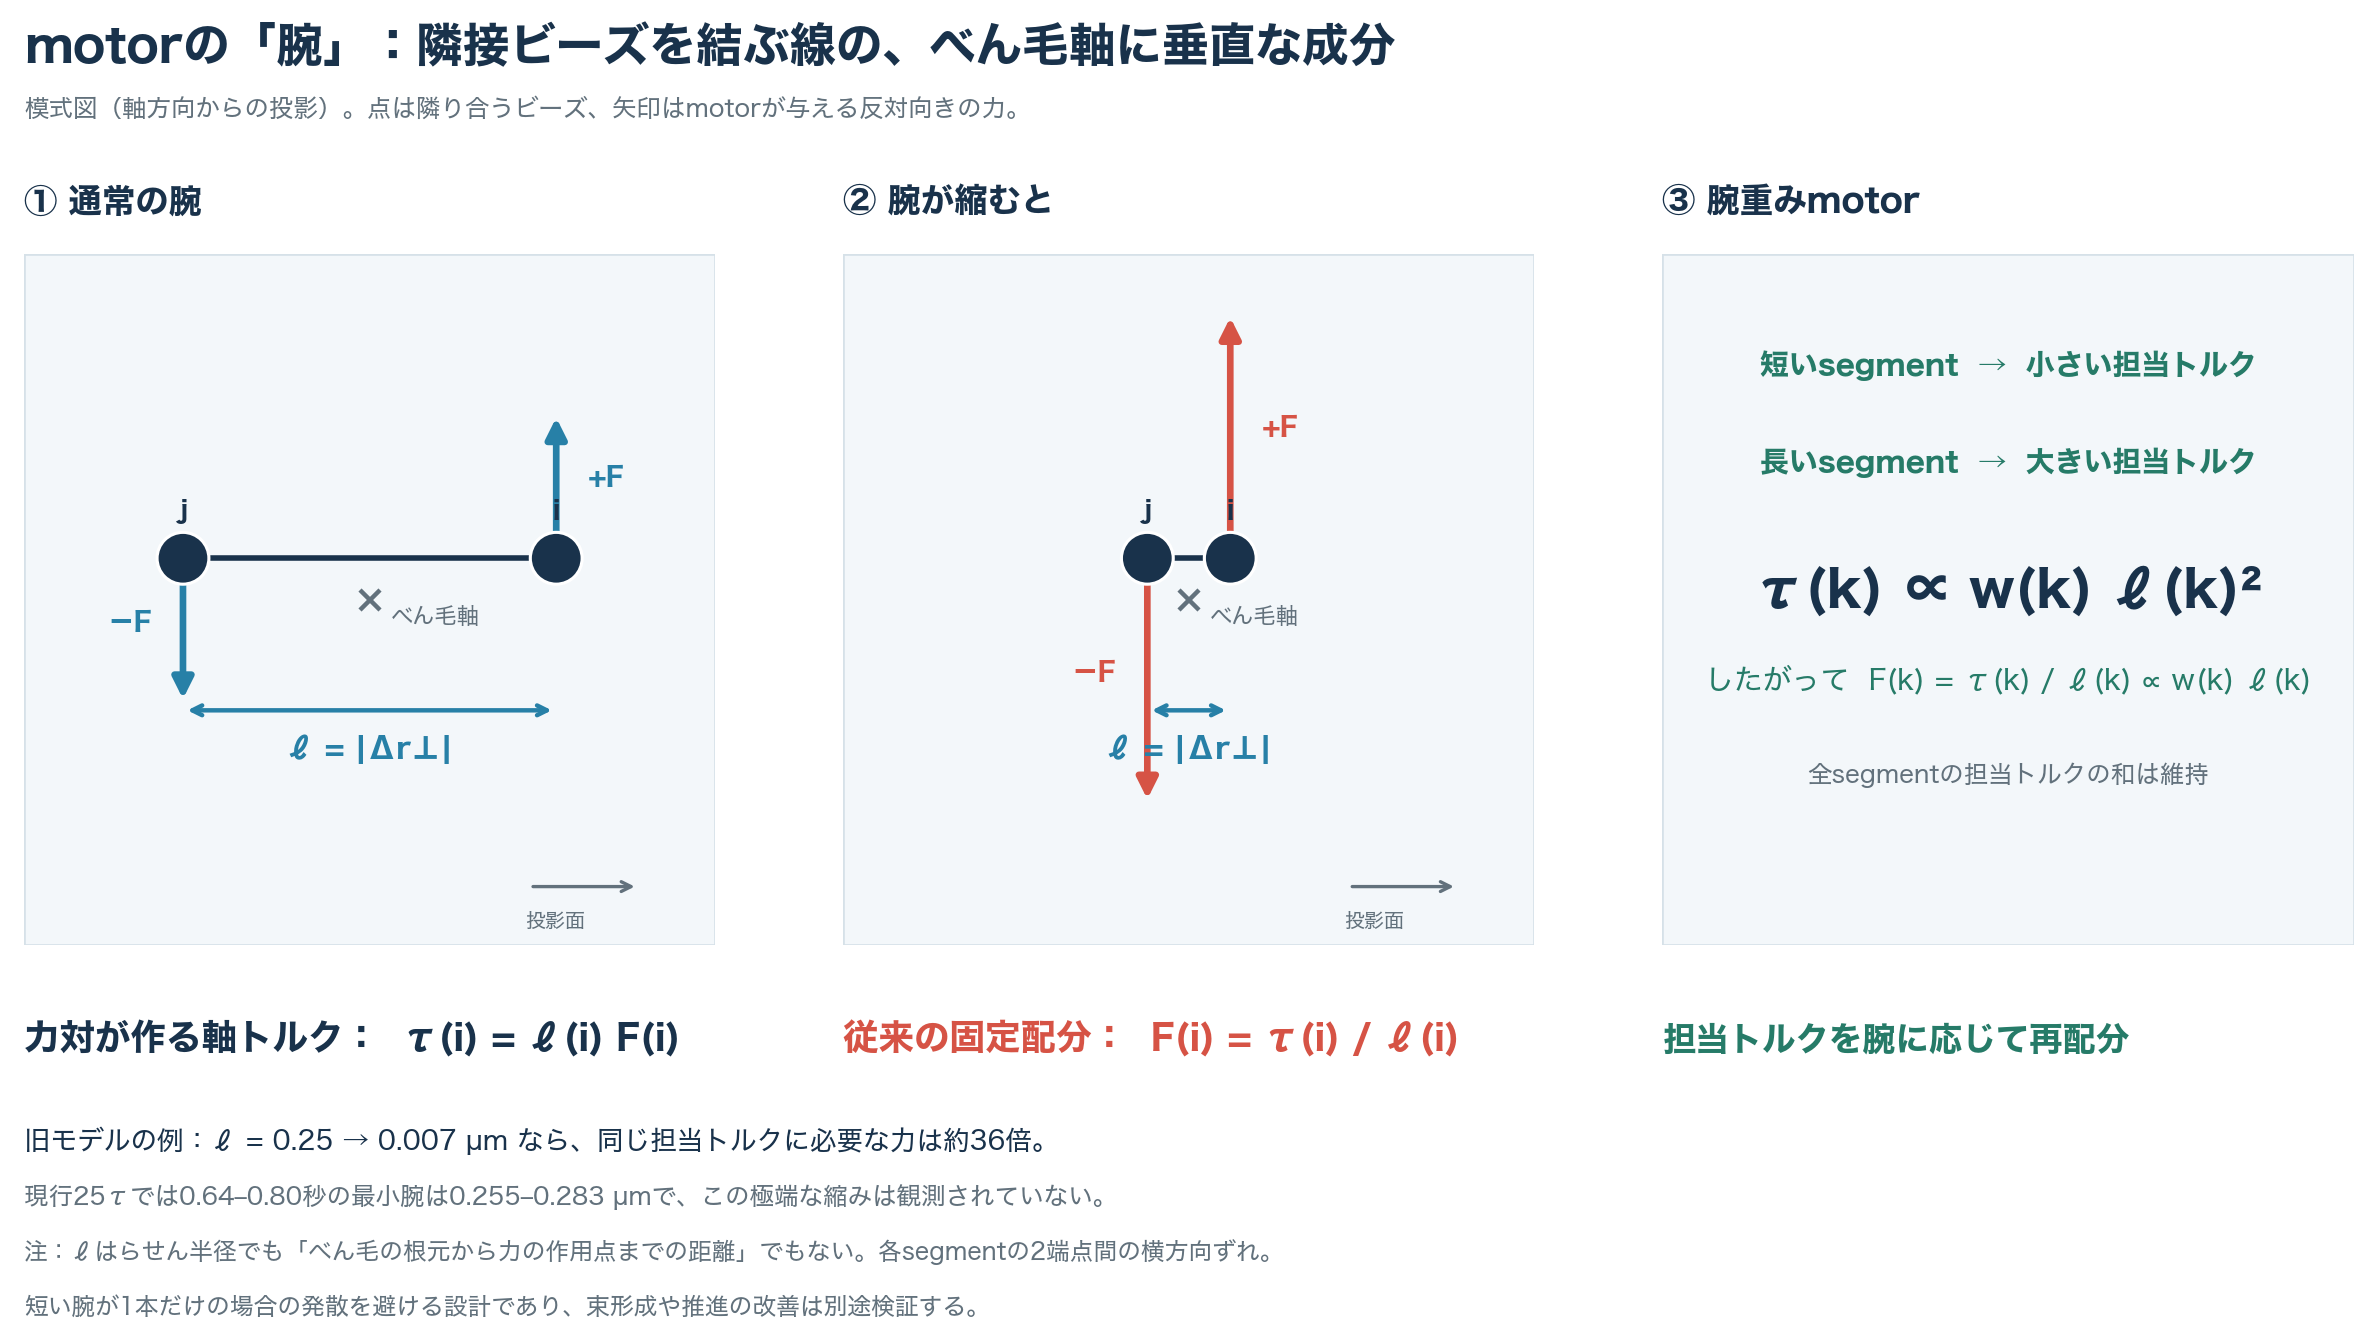
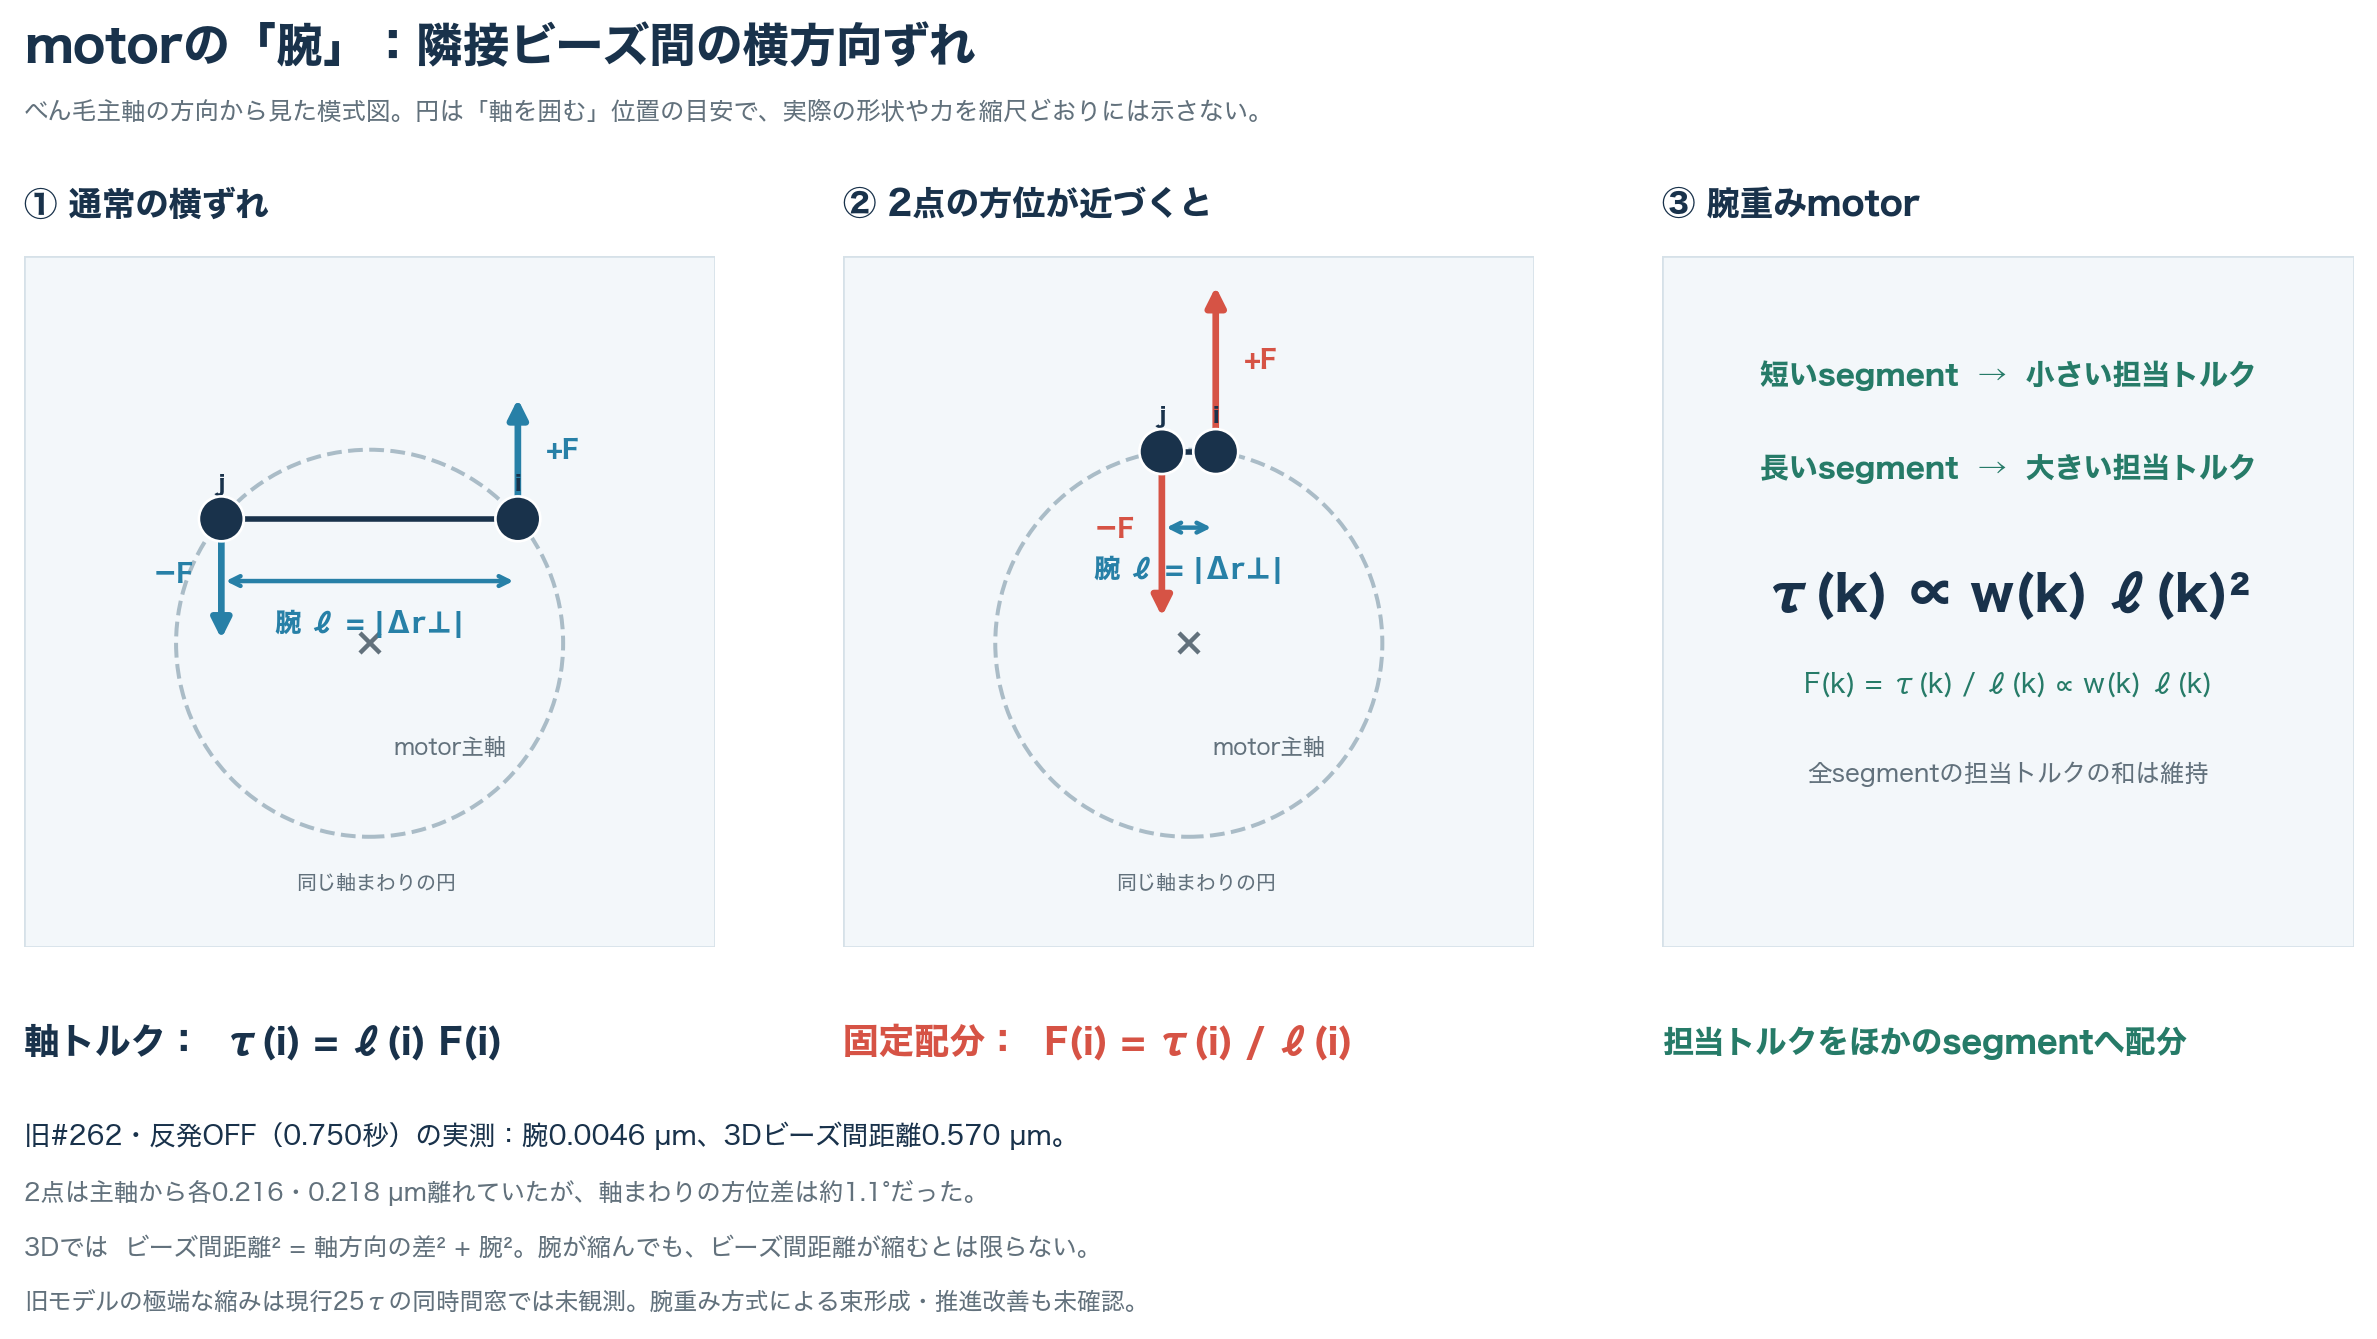
docs: clarify motor axis and projected bead arm

diff --git a/docs/phase2/phase2_263_parallel_hypotheses.md b/docs/phase2/phase2_263_parallel_hypotheses.md
@@ -34,7 +34,11 @@ Mの候補として`motor.segment_torque_distribution: arm_weighted_minimum_norm
 
 ![motorの横方向腕と力対の模式図](figures/issue263_motor_lateral_arm.png)
 
-ここでいう「腕」`ℓ_i`は、らせん半径や菌体付着点からの距離ではなく、**隣接する2ビーズの位置差をべん毛の主軸に垂直な面へ投影した長さ**である。図は主軸方向からの投影で、2ビーズへ反対向きの力`±F_i`を置くと軸方向トルクは`τ_i = ℓ_i F_i`となる。固定重みのまま`ℓ_i`だけが小さくなると、必要な力は`1/ℓ_i`に比例して大きくなる。旧#262モデルで報告された約0.007 µmは通常の約0.25 µmに対し、同じ担当トルクなら概算で約36倍の力を要する。腕重み方式は各segmentの担当トルクを`w_i ℓ_i²`に比例させるため、**他のsegmentの腕が有効なとき**短い腕への力は小さくなる。現行25τの0.64–0.80秒では最小腕が0.255–0.283 µmで、旧モデルの極端な縮みは観測されていない。模式図は実際のべん毛形状・力の絶対値を縮尺どおりには示さない。
+ここでいう「腕」`ℓ_i`は、らせん半径や菌体付着点からの距離ではなく、**隣接する2ビーズの位置差をmotorが使う主軸に垂直な面へ投影した長さ**である。motor主軸はその時刻の**hook側を含む全11ビーズ**に対するSVD第一主成分であり、実際の回転運動から求めた瞬間回転軸ではない。形状診断の`estimate_flag_helix_axis`もSVD方向を用いるが、hook側の最初の1ビーズを除いた10ビーズから推定するため、変形時にはmotor主軸とずれ得る。理想的ならどちらも螺旋中心軸に概ね沿う。
+
+図はmotor主軸方向からの投影で、2ビーズへ反対向きの力`±F_i`を置くと軸方向トルクは`τ_i = ℓ_i F_i`となる。固定重みのまま`ℓ_i`だけが小さくなると、必要な力は`1/ℓ_i`に比例して大きくなる。旧#262モデルで報告された約0.007 µmは通常の約0.25 µmに対し、同じ担当トルクなら概算で約36倍の力を要する。腕重み方式は各segmentの担当トルクを`w_i ℓ_i²`に比例させるため、**他のsegmentの腕が有効なとき**短い腕への力は小さくなる。
+
[1 lines of base64/hex data omitted]
 
 共通QCを通ったarchiveの`bundle_rotation`には、保存状態ごとの各べん毛根元segmentの主軸垂直腕とその最小値、菌体前方軸への符号付き速度、完全回転周期ごとの前方変位を追加する。これはread-onlyの診断で、固定commitのsimulation力学やQC判定を変更しない。前方変位は各時刻の菌体前方軸へ速度を射影して積分した量で、世界座標での直線変位とは異なる。
 
